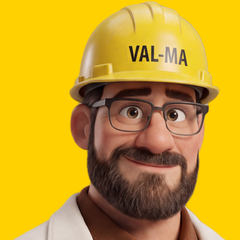
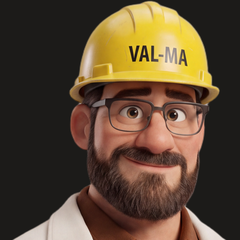
stránky

diff --git a/ochrana-osobnich-udaju.html b/ochrana-osobnich-udaju.html
@@ -1,7 +1,7 @@
 <!doctype html>
 <html lang="cs"><head><meta charset="utf-8"><meta name="viewport" content="width=device-width,initial-scale=1">
 <meta name="robots" content="noindex,nofollow">
-<title>Díky, že jste dali vědět. · VAL-MA sanace</title>
+<title>Co děláme s vaším&nbsp;e-mailem · VAL-MA sanace</title>
 <link href="https://fonts.googleapis.com/css2?family=Manrope:wght@400;700;800&display=swap" rel="stylesheet">
 <style>
 *{box-sizing:border-box}html,body{margin:0}
@@ -25,14 +25,14 @@ p{font-size:17px;line-height:1.6;color:#4A4640;margin:0 0 14px}p b{color:#1C1B19
 .foot{color:#8E887D;font-size:12px;text-align:center;padding:4px 0 26px;line-height:1.6}.foot a{color:#CFC9BE}
 @media (max-width:520px){.card{padding:0 22px 28px}h1{font-size:28px}}
 </style></head>
-<body><!-- štítek v Ecomailu: vyreseno -->
+<body><!-- štítek v Ecomailu: — -->
 <div class="veil">
   <img class="logo" src="logo_bile.png" alt="VAL-MA sanace">
-  <div class="card">
+  <div class="card dlouha">
     <img class="doc" src="doktor.png" alt="Doktor Krovů">
-    <div class="kick">Uloženo</div>
-    <h1>Díky, že jste dali vědět.</h1>
-    <p>Už vás nebudeme rušit.</p><p>Kdyby se na krovu někdy cokoliv objevilo, víte, kde nás najdete.</p>
+    <div class="kick">Zpracování osobních údajů</div>
+    <h1>Co děláme s vaším&nbsp;e-mailem</h1>
+    <p><b>Kdo je správce.</b> VAL-MA sanace s.r.o., Průmyslová 159, 674 01 Třebíč, IČO 22568948.</p><p><b>Odkud váš e-mail máme.</b> Vyžádali jste si u nás nabídku na ošetření krovu a při tom nám ho nechali. Nikde jsme ho nekupovali ani nesbírali z internetu.</p><p><b>K čemu ho používáme.</b> Posíláme vám rady ke krovu a informace k vaší nabídce. Nanejvýš dvakrát za měsíc. Nikomu vaše údaje nepředáváme a nikdy je neprodáváme.</p><p><b>Jak dlouho.</b> Dokud se neodhlásíte, nebo dokud nám nedáte vědět, že už o nabídku nestojíte. Potom vás z rozesílky vyřadíme.</p><p><b>Odhlášení.</b> Jedním kliknutím dole v každém e-mailu. Odhlášení platí okamžitě a napořád.</p><p><b>Vaše práva.</b> Můžete nás kdykoliv požádat, abychom vám ukázali, co o vás vedeme, opravili to nebo smazali. Stačí napsat na doktor.krovu@val-ma-sanace.cz nebo zavolat na 724 044 054.</p><p><b>Technika.</b> E-maily rozesíláme přes Ecomail (Ecomail.cz s.r.o.), který data zpracovává na serverech v EU.</p>
     
     <div class="sig"><span>Hezký den,<br><b>Doktor Krovů</b> z VAL-MA sanace</span></div>
   </div>

diff --git a/domluvit.html b/domluvit.html
@@ -5,9 +5,12 @@
 <link href="https://fonts.googleapis.com/css2?family=Manrope:wght@400;700;800&display=swap" rel="stylesheet">
 <style>
 *{box-sizing:border-box}html,body{margin:0}
-body{min-height:100vh;background:#1C1B19 url(puda.jpg) center/cover fixed;font-family:Manrope,Arial,sans-serif;color:#1C1B19;display:flex;flex-direction:column}
+body{min-height:100vh;background:#1C1B19 url(img/puda.jpg) center/cover fixed;font-family:Manrope,Arial,sans-serif;color:#1C1B19;display:flex;flex-direction:column}
 .veil{flex:1;background:linear-gradient(180deg,rgba(28,27,25,.82),rgba(28,27,25,.95));display:flex;flex-direction:column;align-items:center;padding:28px 16px 0}
 .logo{width:150px;margin:8px 0 96px}
+.card.dlouha{text-align:left}
+.card.dlouha h1,.card.dlouha .kick{text-align:center}
+.card.dlouha p{margin:0 0 14px}
 .card{background:#FFFFFF;border-radius:18px;max-width:560px;width:100%;padding:0 34px 34px;text-align:center;box-shadow:0 20px 60px rgba(0,0,0,.35);border-top:6px solid #FFD100}
 .doc{width:132px;height:132px;border-radius:66px;border:5px solid #FFD100;margin:-66px auto 18px;display:block;background:#FFD100}
 .kick{font-size:13px;font-weight:800;letter-spacing:1.6px;text-transform:uppercase;color:#8A6A00;margin-bottom:10px}
@@ -29,7 +32,7 @@ p{font-size:17px;line-height:1.6;color:#4A4640;margin:0 0 14px}p b{color:#1C1B19
     <img class="doc" src="doktor.png" alt="Doktor Krovů">
     <div class="kick">Předáno kolegovi</div>
     <h1>Díky. Ozveme se vám.</h1>
-    <p>Kolega, který u vás byl na půdě, se vám ozve <b>do dvou pracovních dnů</b>. Zavolá na telefon z vaší nabídky.</p><p>Další e-maily z téhle řady vám už chodit nebudou. Teď to máte s námi osobně.</p>
+    <p>Ozveme se vám <b>do dvou pracovních dnů</b> na telefon z vaší nabídky a domluvíme termín.</p>
     <a class="tel" href="tel:+420724044054"><small>Nechcete čekat? Zavolejte</small>724 044 054</a>
     <div class="sig"><span>Hezký den,<br><b>Doktor Krovů</b> z VAL-MA sanace</span></div>
   </div>

diff --git a/otazka.html b/otazka.html
@@ -1,7 +1,7 @@
 <!doctype html>
 <html lang="cs"><head><meta charset="utf-8"><meta name="viewport" content="width=device-width,initial-scale=1">
 <meta name="robots" content="noindex,nofollow">
-<title>Díky, že jste dali vědět. · VAL-MA sanace</title>
+<title>Rád vám odpovím. · VAL-MA sanace</title>
 <link href="https://fonts.googleapis.com/css2?family=Manrope:wght@400;700;800&display=swap" rel="stylesheet">
 <style>
 *{box-sizing:border-box}html,body{margin:0}
@@ -25,15 +25,15 @@ p{font-size:17px;line-height:1.6;color:#4A4640;margin:0 0 14px}p b{color:#1C1B19
 .foot{color:#8E887D;font-size:12px;text-align:center;padding:4px 0 26px;line-height:1.6}.foot a{color:#CFC9BE}
 @media (max-width:520px){.card{padding:0 22px 28px}h1{font-size:28px}}
 </style></head>
-<body><!-- štítek v Ecomailu: vyreseno -->
+<body><!-- štítek v Ecomailu: otazka -->
 <div class="veil">
   <img class="logo" src="logo_bile.png" alt="VAL-MA sanace">
   <div class="card">
     <img class="doc" src="doktor.png" alt="Doktor Krovů">
-    <div class="kick">Uloženo</div>
-    <h1>Díky, že jste dali vědět.</h1>
-    <p>Už vás nebudeme rušit.</p><p>Kdyby se na krovu někdy cokoliv objevilo, víte, kde nás najdete.</p>
-    
+    <div class="kick">Ptejte se</div>
+    <h1>Rád vám odpovím.</h1>
+    <p>Napište mi odpověď na e-mail, který jste dostali, nebo rovnou zavolejte. Ozvu se zpátky, jak to bude jen trochu možné.</p><p>Žádná otázka není hloupá. Klidně mi pošlete i fotku půdy.</p>
+    <a class="tel" href="tel:+420724044054"><small>Zavolat</small>724 044 054</a>
     <div class="sig"><span>Hezký den,<br><b>Doktor Krovů</b> z VAL-MA sanace</span></div>
   </div>
   <div class="proof">800+ realizací · 10 let záruky · bez zálohy · celá ČR</div>

diff --git a/mesicne.html b/mesicne.html
@@ -1,7 +1,7 @@
 <!doctype html>
 <html lang="cs"><head><meta charset="utf-8"><meta name="viewport" content="width=device-width,initial-scale=1">
 <meta name="robots" content="noindex,nofollow">
-<title>Díky, že jste dali vědět. · VAL-MA sanace</title>
+<title>Budu psát jednou za měsíc. · VAL-MA sanace</title>
 <link href="https://fonts.googleapis.com/css2?family=Manrope:wght@400;700;800&display=swap" rel="stylesheet">
 <style>
 *{box-sizing:border-box}html,body{margin:0}
@@ -25,14 +25,14 @@ p{font-size:17px;line-height:1.6;color:#4A4640;margin:0 0 14px}p b{color:#1C1B19
 .foot{color:#8E887D;font-size:12px;text-align:center;padding:4px 0 26px;line-height:1.6}.foot a{color:#CFC9BE}
 @media (max-width:520px){.card{padding:0 22px 28px}h1{font-size:28px}}
 </style></head>
-<body><!-- štítek v Ecomailu: vyreseno -->
+<body><!-- štítek v Ecomailu: mesicne -->
 <div class="veil">
   <img class="logo" src="logo_bile.png" alt="VAL-MA sanace">
   <div class="card">
     <img class="doc" src="doktor.png" alt="Doktor Krovů">
     <div class="kick">Uloženo</div>
-    <h1>Díky, že jste dali vědět.</h1>
-    <p>Už vás nebudeme rušit.</p><p>Kdyby se na krovu někdy cokoliv objevilo, víte, kde nás najdete.</p>
+    <h1>Budu psát jednou za měsíc.</h1>
+    <p>Z téhle řady vám už nic nepřijde. Jednou za měsíc vám pošlu krátkou radu ke krovu, nic víc.</p><p>Kdykoliv to zrušíte jedním kliknutím dole v e-mailu.</p>
     
     <div class="sig"><span>Hezký den,<br><b>Doktor Krovů</b> z VAL-MA sanace</span></div>
   </div>

diff --git a/dekujeme.html b/dekujeme.html
@@ -5,9 +5,12 @@
 <link href="https://fonts.googleapis.com/css2?family=Manrope:wght@400;700;800&display=swap" rel="stylesheet">
 <style>
 *{box-sizing:border-box}html,body{margin:0}
-body{min-height:100vh;background:#1C1B19 url(puda.jpg) center/cover fixed;font-family:Manrope,Arial,sans-serif;color:#1C1B19;display:flex;flex-direction:column}
+body{min-height:100vh;background:#1C1B19 url(img/puda.jpg) center/cover fixed;font-family:Manrope,Arial,sans-serif;color:#1C1B19;display:flex;flex-direction:column}
 .veil{flex:1;background:linear-gradient(180deg,rgba(28,27,25,.82),rgba(28,27,25,.95));display:flex;flex-direction:column;align-items:center;padding:28px 16px 0}
 .logo{width:150px;margin:8px 0 96px}
+.card.dlouha{text-align:left}
+.card.dlouha h1,.card.dlouha .kick{text-align:center}
+.card.dlouha p{margin:0 0 14px}
 .card{background:#FFFFFF;border-radius:18px;max-width:560px;width:100%;padding:0 34px 34px;text-align:center;box-shadow:0 20px 60px rgba(0,0,0,.35);border-top:6px solid #FFD100}
 .doc{width:132px;height:132px;border-radius:66px;border:5px solid #FFD100;margin:-66px auto 18px;display:block;background:#FFD100}
 .kick{font-size:13px;font-weight:800;letter-spacing:1.6px;text-transform:uppercase;color:#8A6A00;margin-bottom:10px}

diff --git a/jaro.html b/jaro.html
@@ -5,9 +5,12 @@
 <link href="https://fonts.googleapis.com/css2?family=Manrope:wght@400;700;800&display=swap" rel="stylesheet">
 <style>
 *{box-sizing:border-box}html,body{margin:0}
-body{min-height:100vh;background:#1C1B19 url(puda.jpg) center/cover fixed;font-family:Manrope,Arial,sans-serif;color:#1C1B19;display:flex;flex-direction:column}
+body{min-height:100vh;background:#1C1B19 url(img/puda.jpg) center/cover fixed;font-family:Manrope,Arial,sans-serif;color:#1C1B19;display:flex;flex-direction:column}
 .veil{flex:1;background:linear-gradient(180deg,rgba(28,27,25,.82),rgba(28,27,25,.95));display:flex;flex-direction:column;align-items:center;padding:28px 16px 0}
 .logo{width:150px;margin:8px 0 96px}
+.card.dlouha{text-align:left}
+.card.dlouha h1,.card.dlouha .kick{text-align:center}
+.card.dlouha p{margin:0 0 14px}
 .card{background:#FFFFFF;border-radius:18px;max-width:560px;width:100%;padding:0 34px 34px;text-align:center;box-shadow:0 20px 60px rgba(0,0,0,.35);border-top:6px solid #FFD100}
 .doc{width:132px;height:132px;border-radius:66px;border:5px solid #FFD100;margin:-66px auto 18px;display:block;background:#FFD100}
 .kick{font-size:13px;font-weight:800;letter-spacing:1.6px;text-transform:uppercase;color:#8A6A00;margin-bottom:10px}

diff --git a/letos-ne.html b/letos-ne.html
@@ -5,9 +5,12 @@
 <link href="https://fonts.googleapis.com/css2?family=Manrope:wght@400;700;800&display=swap" rel="stylesheet">
 <style>
 *{box-sizing:border-box}html,body{margin:0}
-body{min-height:100vh;background:#1C1B19 url(puda.jpg) center/cover fixed;font-family:Manrope,Arial,sans-serif;color:#1C1B19;display:flex;flex-direction:column}
+body{min-height:100vh;background:#1C1B19 url(img/puda.jpg) center/cover fixed;font-family:Manrope,Arial,sans-serif;color:#1C1B19;display:flex;flex-direction:column}
 .veil{flex:1;background:linear-gradient(180deg,rgba(28,27,25,.82),rgba(28,27,25,.95));display:flex;flex-direction:column;align-items:center;padding:28px 16px 0}
 .logo{width:150px;margin:8px 0 96px}
+.card.dlouha{text-align:left}
+.card.dlouha h1,.card.dlouha .kick{text-align:center}
+.card.dlouha p{margin:0 0 14px}
 .card{background:#FFFFFF;border-radius:18px;max-width:560px;width:100%;padding:0 34px 34px;text-align:center;box-shadow:0 20px 60px rgba(0,0,0,.35);border-top:6px solid #FFD100}
 .doc{width:132px;height:132px;border-radius:66px;border:5px solid #FFD100;margin:-66px auto 18px;display:block;background:#FFD100}
 .kick{font-size:13px;font-weight:800;letter-spacing:1.6px;text-transform:uppercase;color:#8A6A00;margin-bottom:10px}
